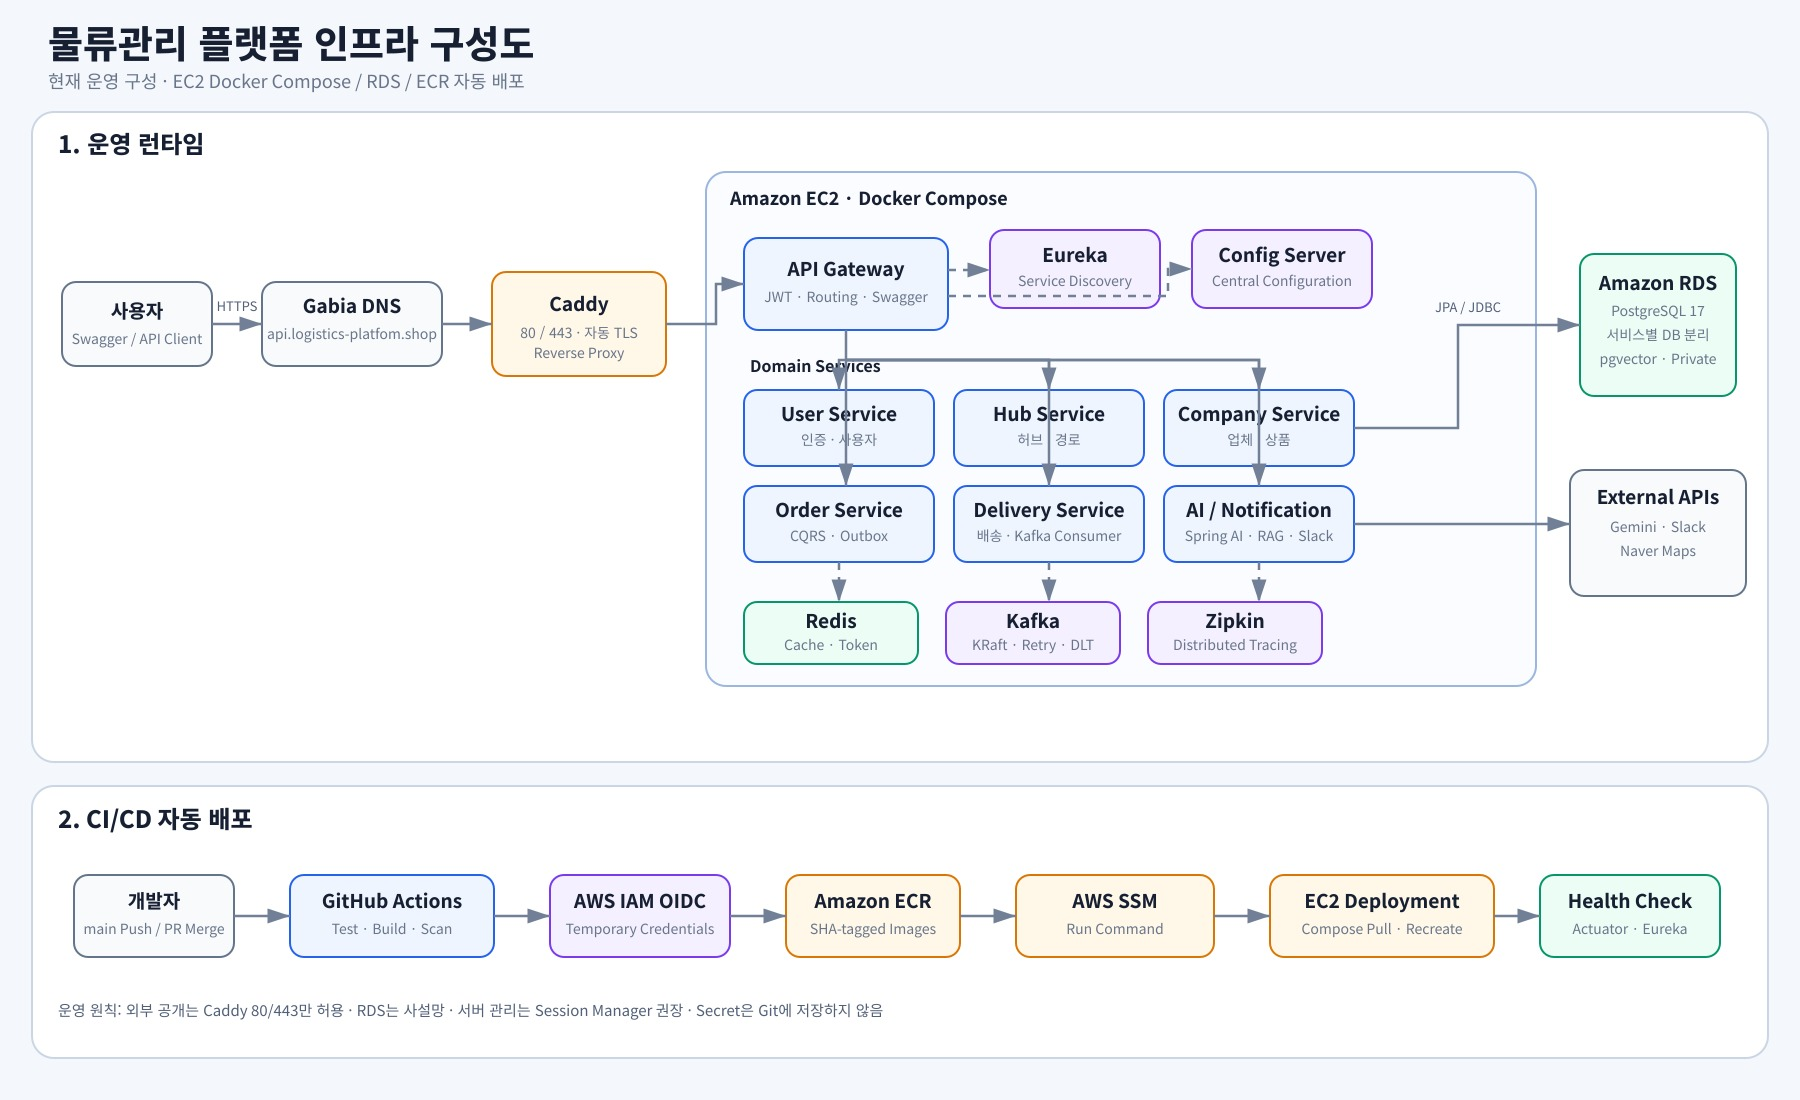
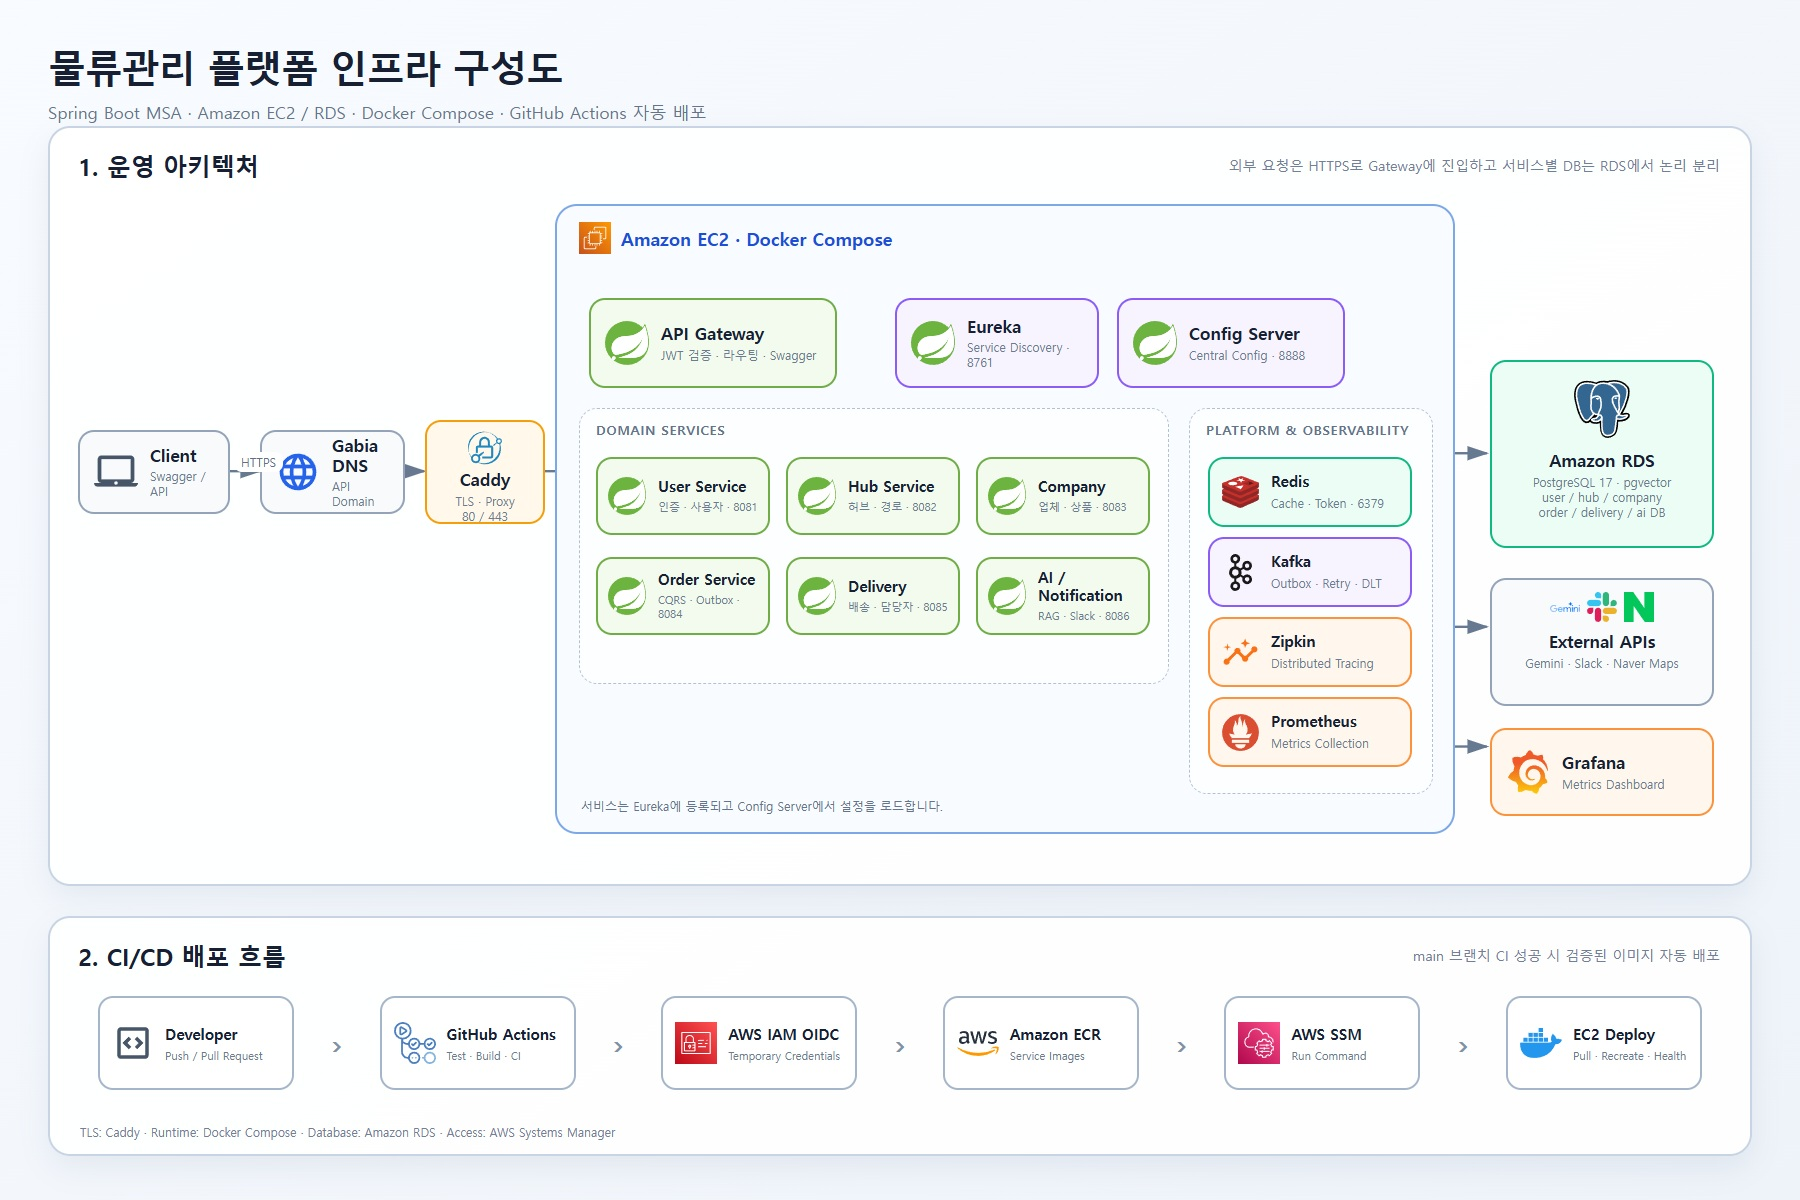
docs : 인프라 설계서 수정 역할 수정

diff --git a/docs/infrastructure-diagram-icons.html b/docs/infrastructure-diagram-icons.html
@@ -1,0 +1,134 @@
+<!doctype html>
+<html lang="ko">
+<head>
+  <meta charset="utf-8">
+  <meta name="viewport" content="width=device-width, initial-scale=1">
+  <title>물류관리 플랫폼 인프라 구성도</title>
+  <style>
+    * { box-sizing: border-box; }
+    body { margin: 0; background: #eef3f9; font-family: "Malgun Gothic", "Noto Sans KR", Arial, sans-serif; color: #172033; }
+    .canvas { width: 1800px; height: 1200px; padding: 42px 48px; background: linear-gradient(145deg, #f8fbff 0%, #eef3f9 100%); position: relative; overflow: hidden; }
+    h1 { margin: 0; font-size: 38px; letter-spacing: -1.2px; }
+    .subtitle { margin-top: 8px; color: #65748b; font-size: 17px; }
+    .panel { position: absolute; left: 48px; width: 1704px; border: 2px solid #c8d4e3; border-radius: 22px; background: rgba(255,255,255,.94); box-shadow: 0 12px 30px rgba(37, 63, 97, .08); }
+    .runtime { top: 126px; height: 760px; }
+    .pipeline { top: 916px; height: 240px; }
+    .panel-title { position: absolute; left: 28px; top: 22px; font-size: 24px; font-weight: 800; }
+    .panel-note { position: absolute; right: 30px; top: 28px; font-size: 14px; color: #718096; }
+    .node { position: absolute; border: 2px solid #9eb1c8; border-radius: 16px; background: #fff; display: flex; align-items: center; padding: 12px 14px; gap: 12px; z-index: 2; }
+    .node img { width: 44px; height: 44px; object-fit: contain; flex: 0 0 auto; }
+    .node .name { font-size: 17px; font-weight: 800; line-height: 1.15; }
+    .node .desc { margin-top: 5px; font-size: 12px; color: #6b7b91; line-height: 1.25; }
+    .external { background: #f8fafc; border-color: #94a3b8; }
+    .aws { background: #fff8eb; border-color: #f59e0b; }
+    .spring { background: #f3faee; border-color: #70ad47; }
+    .data { background: #ecfdf5; border-color: #10b981; }
+    .platform { background: #f7f3ff; border-color: #8b5cf6; }
+    .observe { background: #fff7ed; border-color: #fb923c; }
+    .ec2 { position: absolute; left: 505px; top: 76px; width: 900px; height: 630px; border: 2px solid #7da8e8; border-radius: 22px; background: #f8fbff; z-index: 1; }
+    .ec2-title { position: absolute; left: 22px; top: 16px; display: flex; align-items: center; gap: 10px; color: #1d4ed8; font-size: 18px; font-weight: 800; }
+    .ec2-title img { width: 32px; height: 32px; }
+    .group { position: absolute; border: 1.5px dashed #b2c2d6; border-radius: 18px; background: rgba(255,255,255,.65); }
+    .group-title { position: absolute; top: 12px; left: 16px; font-size: 13px; font-weight: 800; color: #64748b; text-transform: uppercase; letter-spacing: .7px; }
+    .service-grid { left: 22px; top: 202px; width: 590px; height: 276px; }
+    .infra-grid { left: 632px; top: 202px; width: 244px; height: 386px; }
+    .service { width: 174px; height: 78px; padding: 10px; }
+    .service img { width: 38px; height: 38px; }
+    .service .name { font-size: 15px; }
+    .service .desc { font-size: 11px; }
+    .small { width: 204px; height: 70px; padding: 9px 12px; }
+    .small img { width: 37px; height: 37px; }
+    .small .name { font-size: 15px; }
+    .api-icons { display: flex; align-items: center; gap: 7px; flex: 0 0 auto; }
+    .api-icons img { width: 30px; height: 30px; object-fit: contain; }
+    .legend { position: absolute; left: 24px; bottom: 18px; font-size: 12px; color: #64748b; }
+    .line-label { position: absolute; z-index: 3; background: white; color: #607089; font-size: 12px; padding: 2px 7px; border-radius: 8px; }
+    svg.links { position: absolute; inset: 0; z-index: 0; pointer-events: none; }
+    .flow { fill: none; stroke: #667991; stroke-width: 2.4; marker-end: url(#arrow); }
+    .dash { stroke-dasharray: 8 7; }
+    .pipe-row { position: absolute; left: 48px; right: 48px; top: 78px; display: flex; align-items: center; justify-content: space-between; }
+    .pipe-node { width: 196px; height: 94px; border: 2px solid #a6b6ca; border-radius: 15px; background: #fff; display: flex; align-items: center; padding: 12px; gap: 11px; }
+    .pipe-node img { width: 42px; height: 42px; object-fit: contain; }
+    .pipe-node .name { font-size: 15px; font-weight: 800; }
+    .pipe-node .desc { font-size: 11px; color: #6b7b91; margin-top: 4px; }
+    .chev { font-size: 28px; font-weight: 900; color: #8091a7; }
+    .brand-note { position: absolute; bottom: 14px; left: 30px; color: #718096; font-size: 12px; }
+  </style>
+</head>
+<body>
+<main class="canvas">
+  <h1>물류관리 플랫폼 인프라 구성도</h1>
+  <div class="subtitle">Spring Boot MSA · Amazon EC2 / RDS · Docker Compose · GitHub Actions 자동 배포</div>
+
+  <section class="panel runtime">
+    <div class="panel-title">1. 운영 아키텍처</div>
+    <div class="panel-note">외부 요청은 HTTPS로 Gateway에 진입하고 서비스별 DB는 RDS에서 논리 분리</div>
+
+    <svg class="links" viewBox="0 0 1704 760" preserveAspectRatio="none">
+      <defs><marker id="arrow" markerWidth="10" markerHeight="10" refX="8" refY="3" orient="auto"><path d="M0,0 L0,6 L9,3 z" fill="#667991"/></marker></defs>
+      <path class="flow" d="M180 344 H210"/><path class="flow" d="M355 344 H375"/><path class="flow" d="M495 344 H520 V213 H537"/>
+      <path class="flow dash" d="M786 207 H845"/><path class="flow dash" d="M786 235 H1020 V207 H1065"/>
+      <path class="flow" d="M710 258 V330"/><path class="flow" d="M710 330 H575 V390"/><path class="flow" d="M710 330 H764 V390"/><path class="flow" d="M710 330 H953 V390"/>
+      <path class="flow" d="M710 330 V486 H575"/><path class="flow" d="M710 486 H764"/><path class="flow" d="M710 486 H953"/>
+      <path class="flow dash" d="M1118 440 H1160"/><path class="flow dash" d="M1118 536 H1160"/>
+      <path class="flow" d="M1405 326 H1440"/><path class="flow" d="M1405 500 H1440"/>
+      <path class="flow" d="M1405 620 H1440"/>
+    </svg>
+
+    <div class="node external" style="left:28px;top:302px;width:152px;height:84px"><img src="https://api.iconify.design/material-symbols/laptop-mac-outline.svg?color=%23475569"><div><div class="name">Client</div><div class="desc">Swagger / API</div></div></div>
+    <div class="node external" style="left:210px;top:302px;width:145px;height:84px"><img src="https://api.iconify.design/mdi/web.svg?color=%232563eb"><div><div class="name">Gabia DNS</div><div class="desc">API Domain</div></div></div>
+    <div class="node aws" style="left:375px;top:292px;width:120px;height:104px;display:block;text-align:center;padding:9px"><img style="width:34px;height:34px" src="https://api.iconify.design/simple-icons/caddy.svg?color=%231f88c0"><div><div class="name">Caddy</div><div class="desc">TLS · Proxy<br>80 / 443</div></div></div>
+    <span class="line-label" style="left:184px;top:324px">HTTPS</span>
+
+    <div class="ec2">
+      <div class="ec2-title"><img src="https://api.iconify.design/logos/aws-ec2.svg"><span>Amazon EC2 · Docker Compose</span></div>
+      <div class="node spring" style="left:32px;top:92px;width:248px;height:90px"><img src="https://api.iconify.design/logos/spring-icon.svg"><div><div class="name">API Gateway</div><div class="desc">JWT 검증 · 라우팅 · Swagger</div></div></div>
+      <div class="node platform" style="left:338px;top:92px;width:204px;height:90px"><img src="https://api.iconify.design/logos/spring-icon.svg"><div><div class="name">Eureka</div><div class="desc">Service Discovery · 8761</div></div></div>
+      <div class="node platform" style="left:560px;top:92px;width:228px;height:90px"><img src="https://api.iconify.design/logos/spring-icon.svg"><div><div class="name">Config Server</div><div class="desc">Central Config · 8888</div></div></div>
+
+      <div class="group service-grid"><div class="group-title">Domain Services</div>
+        <div class="node spring service" style="left:16px;top:48px"><img src="https://api.iconify.design/logos/spring-icon.svg"><div><div class="name">User Service</div><div class="desc">인증 · 사용자 · 8081</div></div></div>
+        <div class="node spring service" style="left:206px;top:48px"><img src="https://api.iconify.design/logos/spring-icon.svg"><div><div class="name">Hub Service</div><div class="desc">허브 · 경로 · 8082</div></div></div>
+        <div class="node spring service" style="left:396px;top:48px"><img src="https://api.iconify.design/logos/spring-icon.svg"><div><div class="name">Company</div><div class="desc">업체 · 상품 · 8083</div></div></div>
+        <div class="node spring service" style="left:16px;top:148px"><img src="https://api.iconify.design/logos/spring-icon.svg"><div><div class="name">Order Service</div><div class="desc">CQRS · Outbox · 8084</div></div></div>
+        <div class="node spring service" style="left:206px;top:148px"><img src="https://api.iconify.design/logos/spring-icon.svg"><div><div class="name">Delivery</div><div class="desc">배송 · 담당자 · 8085</div></div></div>
+        <div class="node spring service" style="left:396px;top:148px"><img src="https://api.iconify.design/logos/spring-icon.svg"><div><div class="name">AI / Notification</div><div class="desc">RAG · Slack · 8086</div></div></div>
+      </div>
+
+      <div class="group infra-grid"><div class="group-title">Platform & Observability</div>
+        <div class="node data small" style="left:18px;top:48px"><img src="https://api.iconify.design/logos/redis.svg"><div><div class="name">Redis</div><div class="desc">Cache · Token · 6379</div></div></div>
+        <div class="node platform small" style="left:18px;top:128px"><img src="https://api.iconify.design/logos/kafka-icon.svg"><div><div class="name">Kafka</div><div class="desc">Outbox · Retry · DLT</div></div></div>
+        <div class="node observe small" style="left:18px;top:208px"><img src="https://api.iconify.design/mdi/chart-timeline-variant-shimmer.svg?color=%23f97316"><div><div class="name">Zipkin</div><div class="desc">Distributed Tracing</div></div></div>
+        <div class="node observe small" style="left:18px;top:288px"><img src="https://api.iconify.design/logos/prometheus.svg"><div><div class="name">Prometheus</div><div class="desc">Metrics Collection</div></div></div>
+      </div>
+      <div class="legend">서비스는 Eureka에 등록되고 Config Server에서 설정을 로드합니다.</div>
+    </div>
+
+    <div class="node data" style="left:1440px;top:232px;width:224px;height:188px;display:block;text-align:center;padding:18px"><img style="width:58px;height:58px" src="https://api.iconify.design/logos/postgresql.svg"><div class="name" style="margin-top:8px">Amazon RDS</div><div class="desc">PostgreSQL 17 · pgvector<br>user / hub / company<br>order / delivery / ai DB</div></div>
+    <div class="node external" style="left:1440px;top:450px;width:224px;height:128px;display:block;text-align:center">
+      <div class="api-icons" style="justify-content:center;margin-bottom:9px">
+        <img src="https://api.iconify.design/logos/google-gemini.svg" title="Gemini">
+        <img src="https://api.iconify.design/logos/slack-icon.svg" title="Slack">
+        <img src="https://api.iconify.design/simple-icons/naver.svg?color=%2303c75a" title="Naver Maps">
+      </div>
+      <div class="name">External APIs</div><div class="desc">Gemini · Slack · Naver Maps</div>
+    </div>
+    <div class="node observe" style="left:1440px;top:600px;width:224px;height:88px"><img src="https://api.iconify.design/logos/grafana.svg"><div><div class="name">Grafana</div><div class="desc">Metrics Dashboard</div></div></div>
+  </section>
+
+  <section class="panel pipeline">
+    <div class="panel-title">2. CI/CD 배포 흐름</div>
+    <div class="panel-note">main 브랜치 CI 성공 시 검증된 이미지 자동 배포</div>
+    <div class="pipe-row">
+      <div class="pipe-node"><img src="https://api.iconify.design/material-symbols/code-blocks-outline.svg?color=%23475569"><div><div class="name">Developer</div><div class="desc">Push / Pull Request</div></div></div><span class="chev">›</span>
+      <div class="pipe-node"><img src="https://api.iconify.design/logos/github-actions.svg"><div><div class="name">GitHub Actions</div><div class="desc">Test · Build · CI</div></div></div><span class="chev">›</span>
+      <div class="pipe-node"><img src="https://api.iconify.design/logos/aws-iam.svg"><div><div class="name">AWS IAM OIDC</div><div class="desc">Temporary Credentials</div></div></div><span class="chev">›</span>
+      <div class="pipe-node"><img src="https://api.iconify.design/logos/aws.svg"><div><div class="name">Amazon ECR</div><div class="desc">Service Images</div></div></div><span class="chev">›</span>
+      <div class="pipe-node"><img src="https://api.iconify.design/logos/aws-systems-manager.svg"><div><div class="name">AWS SSM</div><div class="desc">Run Command</div></div></div><span class="chev">›</span>
+      <div class="pipe-node"><img src="https://api.iconify.design/logos/docker-icon.svg"><div><div class="name">EC2 Deploy</div><div class="desc">Pull · Recreate · Health</div></div></div>
+    </div>
+    <div class="brand-note">TLS: Caddy · Runtime: Docker Compose · Database: Amazon RDS · Access: AWS Systems Manager</div>
+  </section>
+</main>
+</body>
+</html>

diff --git a/README.md b/README.md
@@ -37,7 +37,7 @@
 
 ![물류관리 시스템 인프라 구성도](docs/infrastructure-diagram.png)
 
-[수정 가능한 SVG 원본](docs/infrastructure-diagram.svg)
+[수정 가능한 아이콘 구성도 원본](docs/infrastructure-diagram-icons.html)
 
 로컬은 Docker Compose로 PostgreSQL, Redis, Kafka, Zipkin과 전체 서비스를 실행합니다. 운영은 RDS PostgreSQL을 외부 DB로 사용하고, ECR 이미지를 EC2의 Docker Compose로 실행합니다. Caddy가 API Gateway 앞에서 TLS 인증서 발급과 HTTPS 역프록시를 담당합니다.
 
@@ -45,12 +45,12 @@
 
 | 이름 | 담당 역할 |
 |---|---|
-| 김태희 | 팀장, 인프라, API Gateway, Order Service |
+| 김태희 | 인프라, API Gateway, Order Service |
 | 나상우 | User Service, API Gateway |
 | 김민지 | Hub Service |
 | 강윤석 | Company·Product Service |
 | 강소율 | Delivery Service |
-| 이용현 | AI·Notification Service |
+| 이용현 | 팀리더, AI·Notification Service |
 
 ## 🧩 서비스 구성
 
